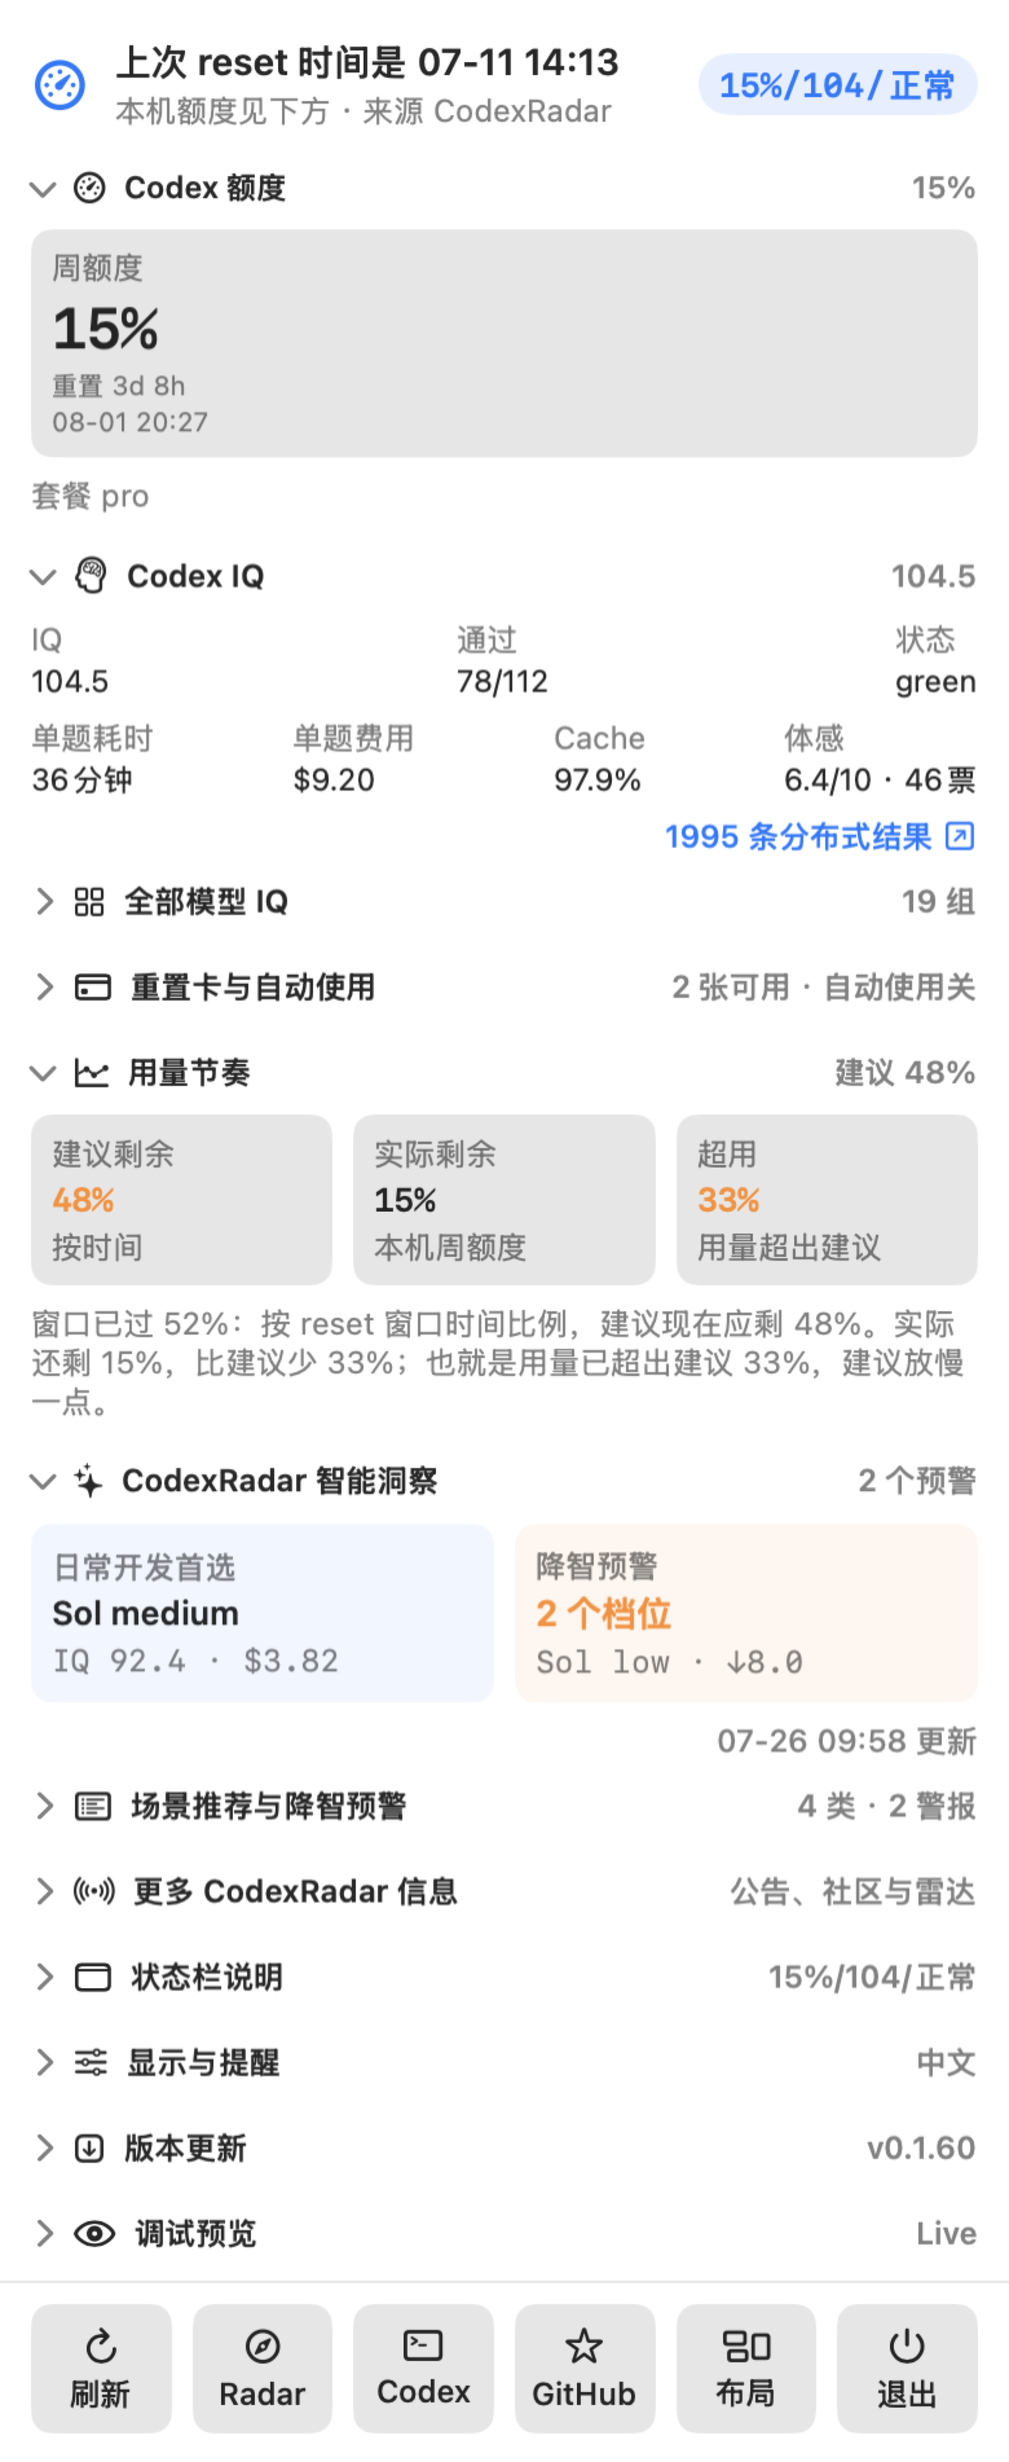
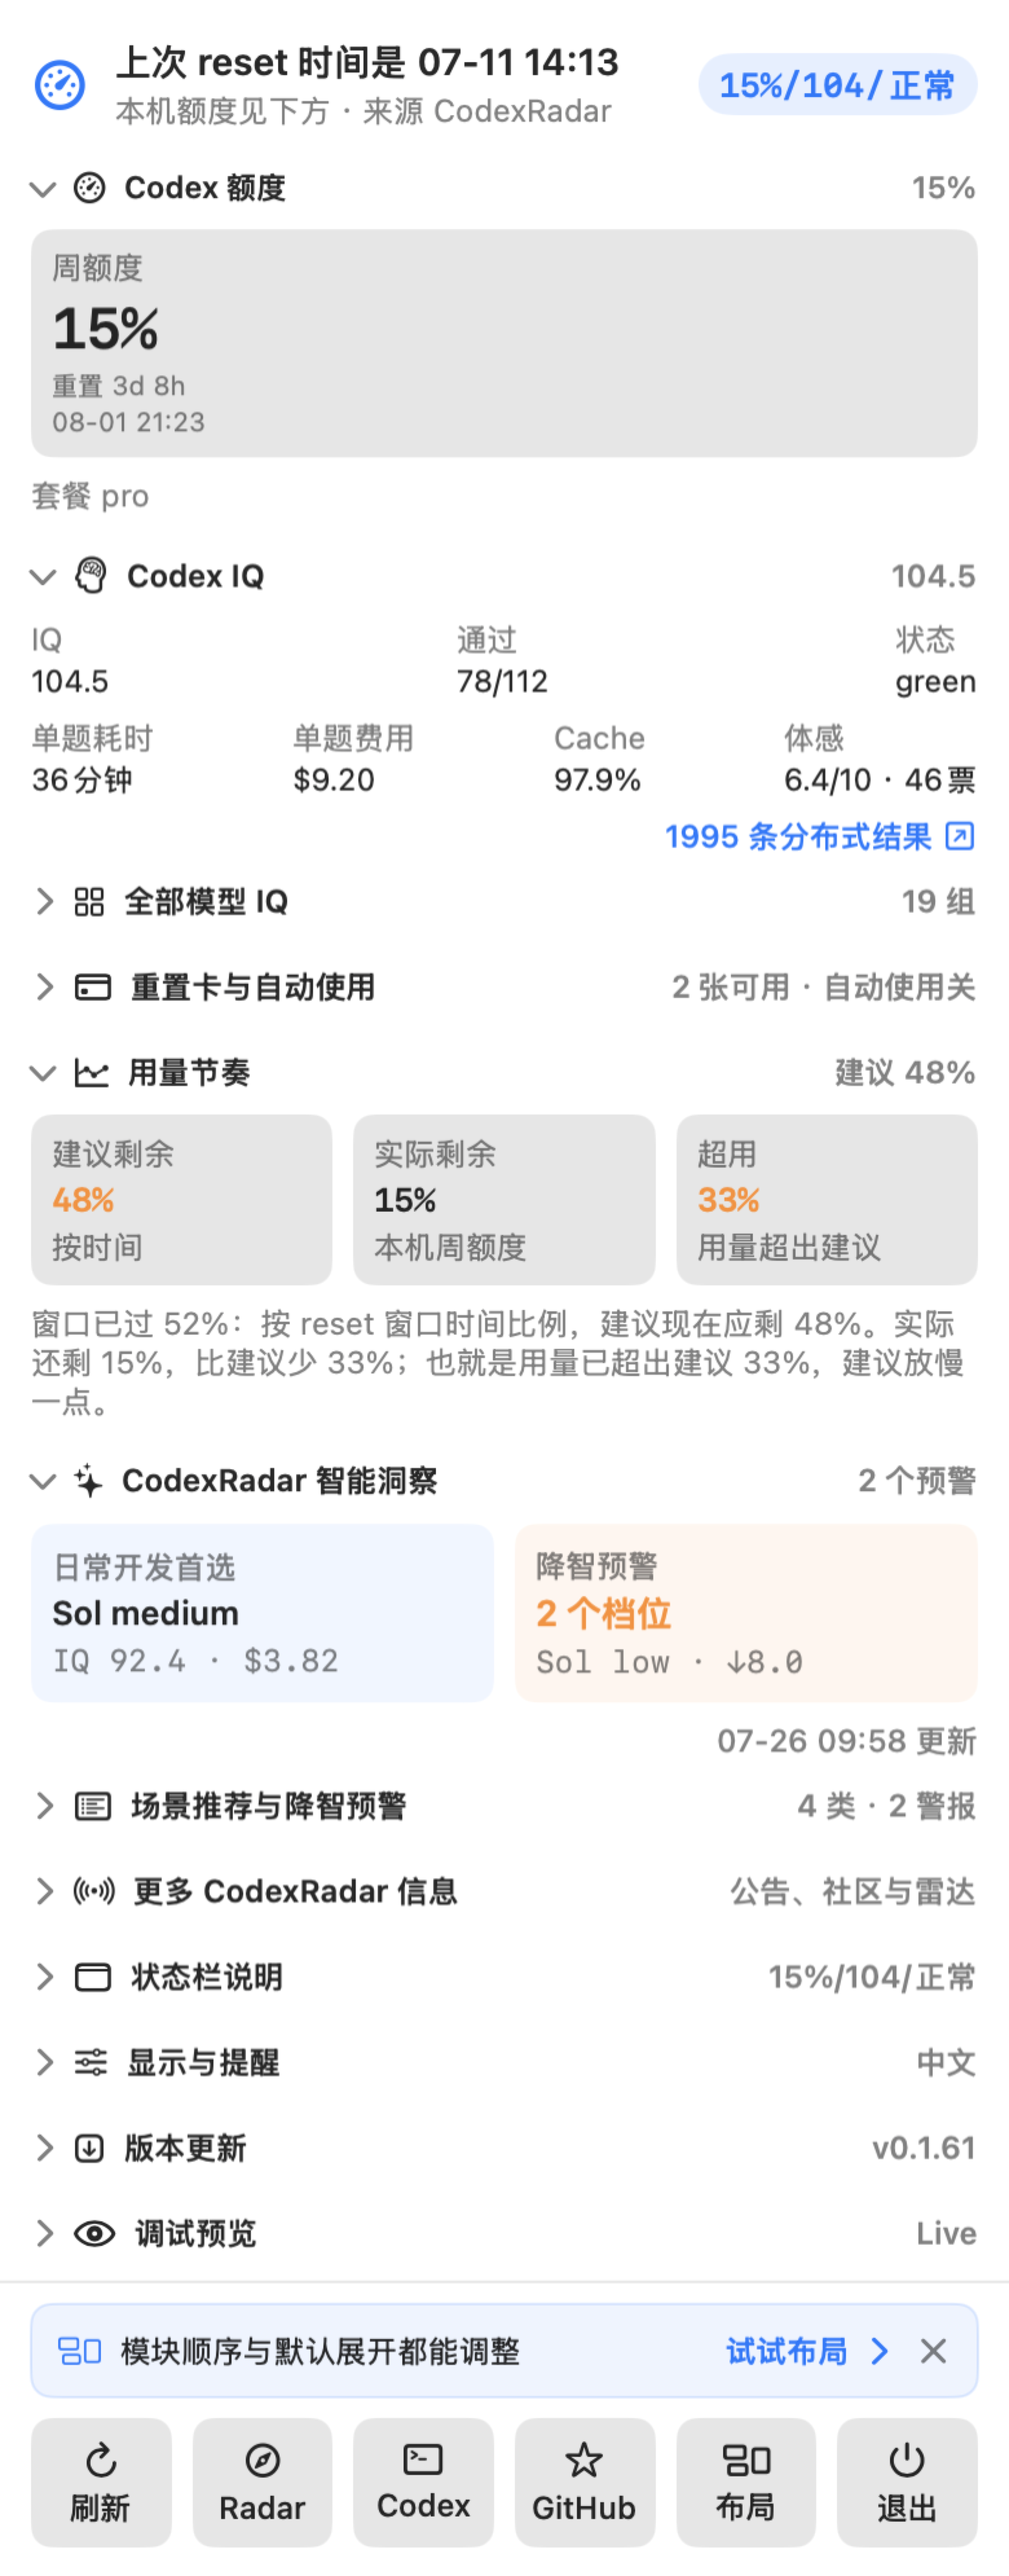
Release v0.1.61
Add a one-time, dismissible Layout discovery tip that opens the editor directly and remembers the user's choice.

Prompt-Id: 83

diff --git a/Sources/CodexRadarSentinel/DashboardMenuView.swift b/Sources/CodexRadarSentinel/DashboardMenuView.swift
@@ -538,9 +538,88 @@ struct DashboardMenuView: View {
     }
 
     private var toolbarContent: some View {
-        actionButtons
-            .padding(.horizontal, Layout.contentPadding)
-            .padding(.vertical, 8)
+        VStack(spacing: 0) {
+            if !customizesLayout && !store.layoutDiscoveryTipDismissed {
+                layoutDiscoveryTip
+                    .padding(.horizontal, Layout.contentPadding)
+                    .padding(.top, 8)
+            }
+            actionButtons
+                .padding(.horizontal, Layout.contentPadding)
+                .padding(.vertical, 8)
+        }
+    }
+
+    private var layoutDiscoveryTip: some View {
+        HStack(spacing: 6) {
+            Button {
+                withAnimation(.easeInOut(duration: 0.12)) {
+                    setLayoutEditorVisible(true)
+                }
+            } label: {
+                HStack(spacing: 6) {
+                    Image(systemName: "rectangle.3.group")
+                        .foregroundStyle(Color.accentColor)
+                    Text(text(
+                        "模块顺序与默认展开都能调整",
+                        "Reorder sections and set defaults"
+                    ))
+                    .foregroundStyle(.primary)
+                    .lineLimit(1)
+                    .minimumScaleFactor(0.75)
+                    Spacer(minLength: 4)
+                    Text(text("试试布局", "Try Layout"))
+                        .fontWeight(.semibold)
+                        .foregroundStyle(Color.accentColor)
+                        .lineLimit(1)
+                    Image(systemName: "chevron.right")
+                        .font(.system(
+                            size: metrics.caption,
+                            weight: .semibold
+                        ))
+                        .foregroundStyle(Color.accentColor)
+                }
+                .contentShape(Rectangle())
+            }
+            .buttonStyle(.plain)
+            .accessibilityLabel(text(
+                "打开布局编辑器，调整模块顺序和默认展开",
+                "Open Layout to reorder sections and set defaults"
+            ))
+
+            Button {
+                withAnimation(.easeInOut(duration: 0.12)) {
+                    store.dismissLayoutDiscoveryTip()
+                }
+            } label: {
+                Image(systemName: "xmark")
+                    .font(.system(
+                        size: metrics.caption,
+                        weight: .semibold
+                    ))
+                    .frame(width: 22, height: 22)
+                    .contentShape(Rectangle())
+            }
+            .buttonStyle(.plain)
+            .foregroundStyle(.secondary)
+            .help(text("关闭布局提示", "Dismiss Layout tip"))
+            .accessibilityLabel(text(
+                "不再显示布局提示",
+                "Do not show the Layout tip again"
+            ))
+        }
+        .font(.system(size: metrics.caption))
+        .padding(.leading, 9)
+        .padding(.trailing, 6)
+        .padding(.vertical, 7)
+        .background(
+            Color.accentColor.opacity(0.08),
+            in: RoundedRectangle(cornerRadius: Layout.toolbarCornerRadius)
+        )
+        .overlay {
+            RoundedRectangle(cornerRadius: Layout.toolbarCornerRadius)
+                .stroke(Color.accentColor.opacity(0.16))
+        }
     }
 
     private var speedAlertBanner: some View {
@@ -3044,14 +3123,21 @@ struct DashboardMenuView: View {
                     : "rectangle.3.group"
             ) {
                 withAnimation(.easeInOut(duration: 0.12)) {
-                    cancelDashboardSectionDrag()
-                    customizesLayout.toggle()
+                    setLayoutEditorVisible(!customizesLayout)
                 }
             }
             toolbarButton(title: text("退出", "Quit"), systemImage: "power") {
                 store.quit()
             }
         }
+    }
+
+    private func setLayoutEditorVisible(_ isVisible: Bool) {
+        cancelDashboardSectionDrag()
+        if isVisible {
+            store.dismissLayoutDiscoveryTip()
+        }
+        customizesLayout = isVisible
     }
 
     private func toolbarButton(

diff --git a/Sources/CodexRadarSentinel/SentinelStore.swift b/Sources/CodexRadarSentinel/SentinelStore.swift
@@ -190,6 +190,15 @@ final class SentinelStore: NSObject, ObservableObject {
         }
     }
 
+    @Published private(set) var layoutDiscoveryTipDismissed: Bool {
+        didSet {
+            defaults.set(
+                layoutDiscoveryTipDismissed,
+                forKey: DefaultsKey.layoutDiscoveryTipDismissed
+            )
+        }
+    }
+
     @Published var modelIQDetailsExpanded: Bool {
         didSet {
             defaults.set(
@@ -309,6 +318,8 @@ final class SentinelStore: NSObject, ObservableObject {
         static let notificationMemory = "notificationMemory"
         static let dismissedSpeedAlertKey = "dismissedSpeedAlertKey"
         static let debugPreviewSectionExpanded = "debugPreviewSectionExpanded"
+        static let layoutDiscoveryTipDismissed =
+            "layoutDiscoveryTipDismissedV1"
         static let modelIQDetailsExpanded =
             "modelIQDetailsExpanded"
         static let radarInsightsDetailsExpanded =
@@ -473,6 +484,9 @@ final class SentinelStore: NSObject, ObservableObject {
             dashboardLayout.setExpanded(.preview, expanded: true)
         }
         self.dashboardLayout = dashboardLayout
+        self.layoutDiscoveryTipDismissed = defaults.bool(
+            forKey: DefaultsKey.layoutDiscoveryTipDismissed
+        )
         self.modelIQDetailsExpanded = defaults.object(
             forKey: DefaultsKey.modelIQDetailsExpanded
         ) as? Bool
@@ -707,6 +721,13 @@ final class SentinelStore: NSObject, ObservableObject {
 
     func isDashboardSectionExpanded(_ section: DashboardSection) -> Bool {
         dashboardLayout.expandedSections.contains(section)
+    }
+
+    func dismissLayoutDiscoveryTip() {
+        guard !layoutDiscoveryTipDismissed else {
+            return
+        }
+        layoutDiscoveryTipDismissed = true
     }
 
     func setDashboardSection(
@@ -1263,6 +1284,7 @@ final class SentinelStore: NSObject, ObservableObject {
         quotaPacingOptionsExpanded = false
         statusBarAdvancedOptionsExpanded = false
         dashboardLayout = .default
+        layoutDiscoveryTipDismissed = false
         for disclosure in DashboardDisclosure.allCases {
             setDashboardDisclosure(
                 disclosure,

diff --git a/Tests/CodexRadarSentinelTests/DashboardLayoutTests.swift b/Tests/CodexRadarSentinelTests/DashboardLayoutTests.swift
@@ -388,6 +388,27 @@ final class DashboardLayoutTests: XCTestCase {
         )
     }
 
+    func testLayoutDiscoveryTipDismissalPersistsWithoutChangingLayout()
+        throws
+    {
+        let context = try LayoutTestContext()
+        defer { context.cleanup() }
+
+        var firstStore: SentinelStore? = context.makeStore()
+        XCTAssertFalse(firstStore?.layoutDiscoveryTipDismissed == true)
+        XCTAssertEqual(firstStore?.dashboardLayout, .default)
+
+        firstStore?.dismissLayoutDiscoveryTip()
+
+        XCTAssertTrue(firstStore?.layoutDiscoveryTipDismissed == true)
+        XCTAssertEqual(firstStore?.dashboardLayout, .default)
+        firstStore = nil
+
+        let secondStore = context.makeStore()
+        XCTAssertTrue(secondStore.layoutDiscoveryTipDismissed)
+        XCTAssertEqual(secondStore.dashboardLayout, .default)
+    }
+
     func testLegacyPreviewExpansionMigratesOnlyUntilNewPreferenceExists()
         throws
     {

diff --git a/Sources/CodexRadarCore/AppConstants.swift b/Sources/CodexRadarCore/AppConstants.swift
@@ -4,7 +4,7 @@ public enum AppConstants {
     public static let appName = "Codex Radar Sentinel"
     public static let clientName = "codex-radar-sentinel"
     public static let bundleIdentifier = "com.codexradar.sentinel"
-    public static let appVersion = "0.1.60"
+    public static let appVersion = "0.1.61"
 
     public static let codexLimitID = "codex"
     public static let weeklyWindowMinutes = 10_080.0

diff --git a/README.en.md b/README.en.md
@@ -25,6 +25,12 @@ You can also install manually from [GitHub Releases](https://github.com/WineChor
 
 ## News
 
+### v0.1.61: Make Layout easier to discover
+
+- A compact tip above the bottom toolbar explains that section order and default-open states are customizable. `Try Layout` opens the editor directly.
+- Opening Layout from either entry point dismisses the tip. It can also be closed immediately, and that choice persists across app restarts.
+- The tip appears only once and stays out of the top content area, preserving the priority of the current result, critical alerts, and everyday data.
+
 ### v0.1.60: Set defaults for nested details
 
 - The layout editor now lists collapsible details beneath their parent sections, including `All model IQ` and `Recommendations & alerts`, with their own default-open controls.
@@ -37,15 +43,10 @@ You can also install manually from [GitHub Releases](https://github.com/WineChor
 - Choose `Layout` to drag sections or use the move-up and move-down buttons, then set which sections open by default. Preferences persist when the menu reopens and after an app restart.
 - The current result, urgent alerts, and connection errors remain fixed. Reset-credit or update detail opens temporarily when it needs attention, and the default layout is always one click away.
 
-### v0.1.58: Pass counts stay on one line
-
-- Values such as `78/112` in `All model IQ` no longer split across lines at larger text sizes, making comparisons easier to scan.
-- The IQ, Passed, and Rating columns stay on one line across M, L, and XL while preserving room for model names in both interface languages.
-- The SHA256 manifest uses filenames from the download directory, so manual package verification no longer depends on repository paths.
-
 <details>
 <summary><strong>Earlier releases</strong> — expand for previous product milestones</summary>
 
+- **v0.1.58**: kept multi-model IQ pass counts intact across M, L, and XL and made the SHA256 manifest directly verifiable from the download directory.
 - **v0.1.57**: moved quota and Codex IQ forward, grouped low-frequency information behind clear disclosures, and kept critical alerts visible.
 - **v0.1.56**: accepts a missing temporary notice as a normal empty state without interrupting other live data.
 - **v0.1.55**: added scenario recommendations and degradation alerts while retaining the last valid result through network or schema failures.
@@ -112,13 +113,15 @@ These images are rendered by the app in an isolated preview environment. They co
 
 <img src="docs/assets/en/menu-full.png" width="390" alt="Codex Radar Sentinel full menu">
 
-The default order leads with the current conclusion, local quota, Codex IQ, reset-credit summary, usage pace, and Insights. Notices, community notes, radar detail, and low-frequency settings stay collapsed until requested. Critical alerts remain visible, and reset-credit or update detail opens automatically when it needs attention. Refresh, Radar, Codex, GitHub, Layout, and Quit stay fixed at the bottom.
+The default order leads with the current conclusion, local quota, Codex IQ, reset-credit summary, usage pace, and Insights. Notices, community notes, radar detail, and low-frequency settings stay collapsed until requested. Critical alerts remain visible, and reset-credit or update detail opens automatically when it needs attention. Refresh, Radar, Codex, GitHub, Layout, and Quit stay fixed at the bottom. A dismissible, one-time Layout tip appears above the toolbar.
 
 ## Using the App
 
 ### Menu layout
 
 Choose `Layout` in the bottom toolbar to customize top-level sections. Drag a handle or use the move-up and move-down buttons to change the order, then choose which sections are expanded by default. When a section contains collapsible details, they appear indented beneath it—for example, `All model IQ` under `Codex IQ`—with independent default-open controls. Every preference persists when the menu reopens and after an app restart. `Restore default layout` resets only layout preferences, not language, text size, alerts, or automatic updates.
+
+A compact tip above the bottom toolbar introduces Layout the first time it is shown. Selecting the tip opens the editor directly; choosing `Layout` itself or dismissing the tip prevents it from appearing again.
 
 The current result, urgent alerts, and connection errors are not sortable. Reset-credit or update sections temporarily lock open when they need attention, then return to the user's saved preference after the issue clears.
 
@@ -215,14 +218,14 @@ CODEX_RADAR_CODEX_PATH=/path/to/codex swift run CodexRadarSentinel
 ```bash
 swift test
 swift build -c release
-./scripts/check_release_readiness.sh 0.1.60
+./scripts/check_release_readiness.sh 0.1.61
 ```
 
 Build release assets:
 
 ```bash
 ./scripts/build_app.sh
-./scripts/package_release.sh 0.1.60
+./scripts/package_release.sh 0.1.61
 ```
 
 Update the menu-bar and full-menu screenshots:

diff --git a/README.md b/README.md
@@ -25,6 +25,12 @@ https://github.com/WineChord/codex-radar/releases/latest
 
 ## News / 最新功能
 
+### v0.1.61：“布局”入口更容易发现
+
+- 面板底部新增一条轻量提示，说明模块顺序和默认展开都能调整；点击“试试布局”会直接进入布局编辑器。
+- 从提示或底部“布局”进入后，提示不会重复出现；也可以直接关闭，选择会在应用重启后保留。
+- 提示只出现一次且不占用顶部空间，当前结论、关键告警和常用数据的优先级保持不变。
+
 ### v0.1.60：模块内子项也能预设展开
 
 - 布局编辑器会在所属模块下方列出可折叠子项；现在可以直接设置“全部模型 IQ”和“场景推荐与降智预警”是否默认展开。
@@ -37,15 +43,10 @@ https://github.com/WineChord/codex-radar/releases/latest
 - 点击底部“布局”即可拖动模块，或使用上移、下移按钮调整顺序，并分别设置默认展开状态；选择会在重新打开菜单和重启应用后保留。
 - 当前结论、紧急提示和连接错误始终固定可见；需要处理的重置卡或更新状态会临时展开，也可以一键恢复默认布局。
 
-### v0.1.58：多模型通过数保持完整
-
-- “全部模型 IQ”中的 `78/112` 等通过数不再在较大字号下断成两行，横向比较更直接。
-- IQ、通过和体感三列会随 M/L/XL 字号保持单行，同时为模型名称保留足够空间；中英文布局一致。
-- SHA256 清单使用下载目录内的文件名，手动校验安装包时不再依赖仓库内部路径。
-
 <details>
 <summary><strong>历史版本</strong> — 展开查看更早的产品里程碑</summary>
 
+- **v0.1.58**：让多模型 IQ 的通过数在 M/L/XL 字号下保持完整，并让 SHA256 清单可在下载目录直接校验。
 - **v0.1.57**：将核心额度与 Codex IQ 前置，把低频信息统一收进清晰的折叠入口，同时保持关键告警可见。
 - **v0.1.56**：兼容没有临时公告的正常空状态，公告变化不再影响其他在线数据更新。
 - **v0.1.55**：加入场景推荐与降智预警，并在网络或数据格式异常时保留上一次有效结果。
@@ -112,13 +113,15 @@ https://github.com/WineChord/codex-radar/releases/latest
 
 <img src="docs/assets/zh/menu-full.png" width="390" alt="Codex Radar Sentinel 中文完整菜单">
 
-面板默认依次展示当前结论、本机额度、Codex IQ、重置卡摘要、用量节奏和智能洞察。公告、社区知识、雷达明细和低频设置默认折叠，需要时仍可在原位展开；关键告警保持可见，需要处理的重置卡或更新状态会自动展开。刷新、Radar、Codex、GitHub、布局和退出入口固定在底部。
+面板默认依次展示当前结论、本机额度、Codex IQ、重置卡摘要、用量节奏和智能洞察。公告、社区知识、雷达明细和低频设置默认折叠，需要时仍可在原位展开；关键告警保持可见，需要处理的重置卡或更新状态会自动展开。刷新、Radar、Codex、GitHub、布局和退出入口固定在底部；首次展示布局功能时，工具栏上方会显示一条可关闭的轻提示。
 
 ## 使用说明
 
 ### 菜单布局
 
 点击底部 `布局` 可调整顶层模块：拖动手柄或使用上移、下移按钮改变顺序，并为每项选择是否默认展开。模块内还有可折叠子项时，会在所属模块下方缩进显示，例如 `Codex IQ` 下的 `全部模型 IQ`；子项也可以独立设置默认展开。所有选择都会在重新打开菜单和重启应用后保留。`恢复默认布局` 只重置这些布局偏好，不会改变语言、字号、提醒或自动更新设置。
+
+首次显示时，底部工具栏上方会用一条轻提示说明布局能力。点击提示会直接进入布局编辑器；直接点击 `布局` 或关闭提示后，它都不会重复出现。
 
 当前结论、紧急提示和连接错误不参与排序。重置卡或更新遇到需要处理的状态时，对应模块会临时锁定展开；问题解除后恢复用户原来的折叠偏好。
 
@@ -215,14 +218,14 @@ CODEX_RADAR_CODEX_PATH=/path/to/codex swift run CodexRadarSentinel
 ```bash
 swift test
 swift build -c release
-./scripts/check_release_readiness.sh 0.1.60
+./scripts/check_release_readiness.sh 0.1.61
 ```
 
 构建发布包：
 
 ```bash
 ./scripts/build_app.sh
-./scripts/package_release.sh 0.1.60
+./scripts/package_release.sh 0.1.61
 ```
 
 更新中英文状态栏与菜单截图：
